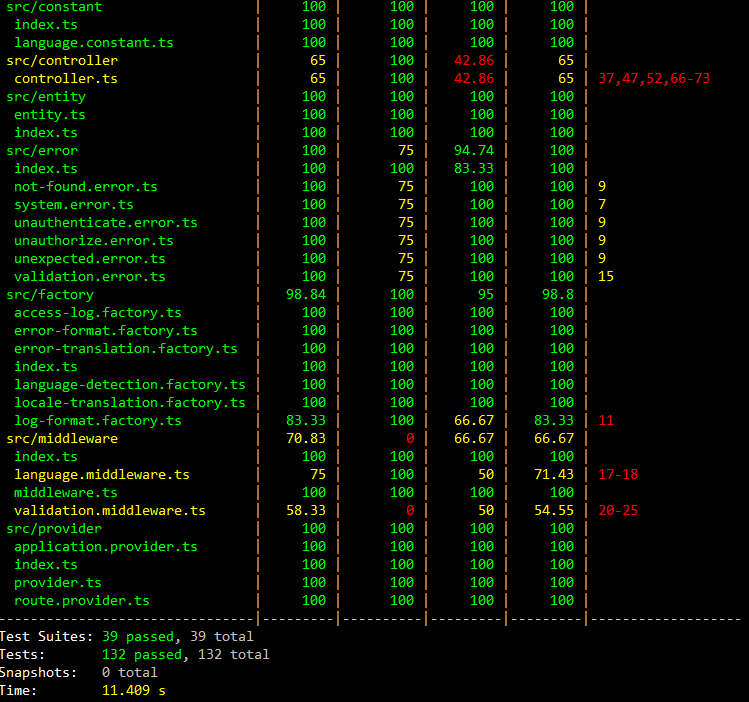
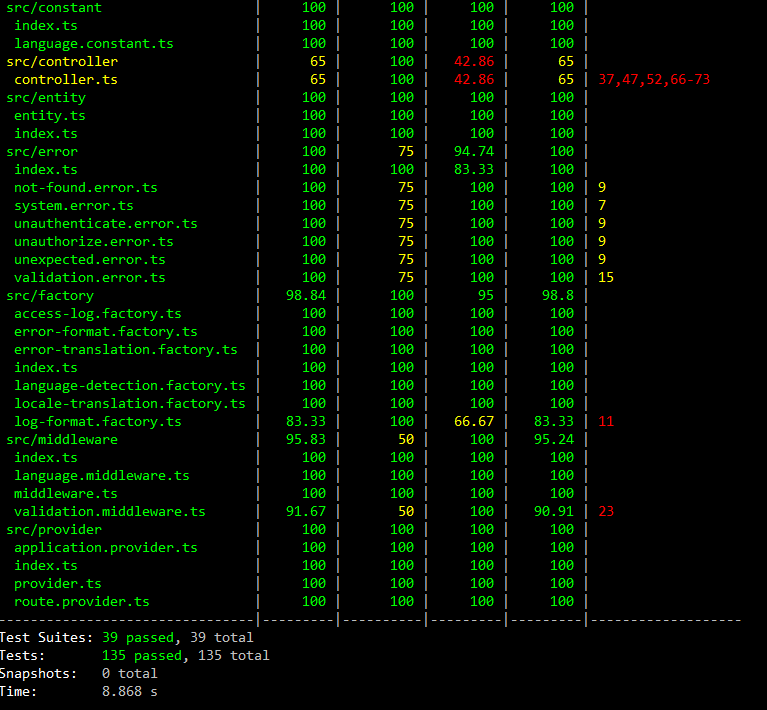
[ADD] middleware test

diff --git a/test/unit/middleware/validation-middleware.test.ts b/test/unit/middleware/validation-middleware.test.ts
@@ -1,6 +1,8 @@
 
 import express from 'express';
+import ValidationError from '../../../src/error/validation.error';
 import ValidationMiddleware from "../../../src/middleware/validation.middleware";
+import { Request, Response } from '../../../src/interface/http.interface';
 
 describe('Validation Middleware', () => {
 
@@ -31,6 +33,32 @@ describe('Validation Middleware', () => {
   test('Middleware shape should be valid', () => {
     const validationMiddleware = app.use(middleware.handle);
     expect(typeof validationMiddleware === "function").toBeTruthy();
+  });
+
+  test('error object should be null when there is no validation error', () => {
+    const middleware = exec();
+    const request = { locale: { language: "id" } } as Request;
+
+    const callback = (error: any) => {
+      expect(error).toBe(null);
+    };
+    middleware.handle(request, {} as Response, callback);
+  });
+
+  test('error object should contain ValidationError object when there is validation error', () => {
+    const request = { locale: { language: "id" }, _language: {} } as Request;
+    const middleware = exec();
+
+    const handle = jest.spyOn(ValidationMiddleware.prototype as any, 'handle');
+    const handler = function(req: Request, res: Response, next: Function) {
+      return next(new ValidationError("Invalid data", []));
+    };
+    handle.mockImplementation(handler as any);
+
+    const callback = (error: any) => {
+      expect(error).toBeInstanceOf(ValidationError);
+    };
+    middleware.handle(request, {} as Response, callback);
   });
 
 });

diff --git a/test/unit/middleware/language-middleware.test.ts b/test/unit/middleware/language-middleware.test.ts
@@ -1,6 +1,7 @@
 
 import express from 'express';
 import LanguageMiddleware from "../../../src/middleware/language.middleware";
+import { Request, Response } from '../../../src/interface/http.interface';
 
 describe('Language Middleware', () => {
 
@@ -21,7 +22,7 @@ describe('Language Middleware', () => {
   });
 
   afterEach(() => {
-    
+    jest.restoreAllMocks();
   });
 
   const exec = () => {
@@ -31,6 +32,14 @@ describe('Language Middleware', () => {
   test('Middleware shape should be valid', () => {
     const languageMiddleware = app.use(middleware.handle);
     expect(typeof languageMiddleware === "function").toBeTruthy();
+  });
+
+  test('_language object should be defined when handle method is used', () => {
+    const middleware = exec();
+    let request = { locale: { language: "id" } } as Request;
+    middleware.handle(request, {} as Response, () => {});
+    
+    expect(typeof request._language).not.toBe(undefined);
   });
 
 });

diff --git a/readme.md b/readme.md
@@ -65,7 +65,7 @@ Complete documentations are available [here][document-url]
 | ✔ | Error         |  |
 | ✔ | Interface     |  |
 | ✔ | Middleware    |  |
-| ⚠ | Provider      |  |
+| ✔ | Provider      |  |
 | ✔ | Type          |  |
 | ❌ | Model         |  |
 
@@ -89,6 +89,7 @@ Complete documentations are available [here][document-url]
 - src/package/translation
 - src/package/router
 - etc
+9. Unit and Integration testing boundary?
 
 👀 Issues
 ---

diff --git a/doc/TODO.md b/doc/TODO.md
@@ -1,14 +1,8 @@
 # Test
 
-1. Adapter
+1. Adapter (probably abusing this pattern)
   - class ValidationResult
 
-2. Controller
+2. Controller (need to refactor first - chain of responsibility)
   - class Controller
   - Facade
-
-3. Middleware
-- class LanguageMiddleware
-  `req._language`
-- class ValidationMiddleware
-  `error` and `not error` case
